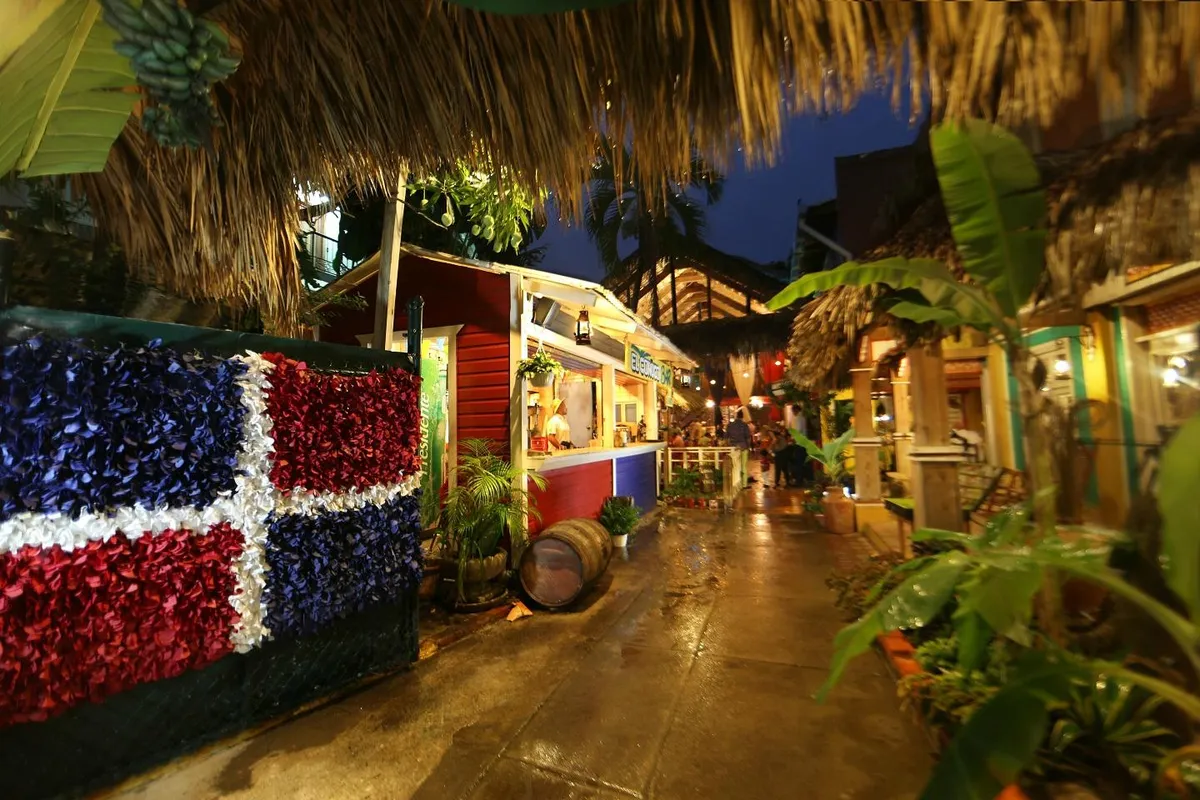
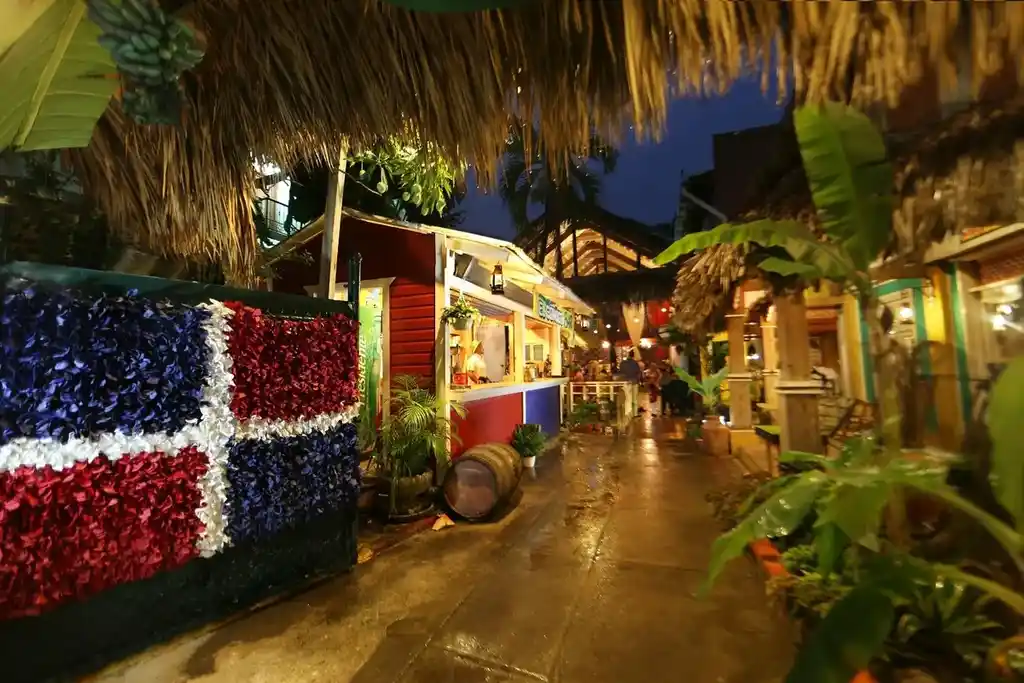
audit updates

diff --git a/final/dishes.html b/final/dishes.html
@@ -59,7 +59,7 @@
                 <img src="images/final-dishes-hero-small.webp" alt="Dominican Dishes Hero">
             </picture>
             <div class="hero-text">
-                <h2>Discover Traditional Dominican Dishes</h2>
+                <h1>Discover Traditional Dominican Dishes</h1>
                 <p>Explore recipes, cultural meaning, and fun facts.</p>
             </div>
         </section>

diff --git a/final/finder.html b/final/finder.html
@@ -58,7 +58,7 @@
 
     <main>
         <section id="finder">
-            <h2>Find Dominican Restaurants</h2>
+            <h1>Find Dominican Restaurants</h1>
             <form id="finder-form">
                 <label for="dish">Dish Name:</label>
                 <select id="dish" name="dish">
